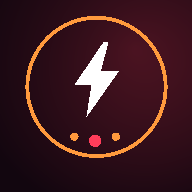
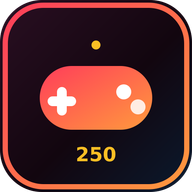
v2.6.4 2026-09-22

diff --git a/CHANGELOG.md b/CHANGELOG.md
@@ -1,5 +1,9 @@
 # Historial — ArcadePaLoMuchacho
 
+## v2.6.4 (2026-09-22) — Icono nuevo
+- **Nuevo icono Mando**: gamepad coral con 250, aplicado en web (favicon,
+  PWA, Apple), portadas (og-image, promo, Play) y APK/AAB reconstruidos.
+
 ## v2.6.3 (2026-09-22) — Privacidad, calidad y cara nueva
 - **Kit Google Play listo**: AAB v2.6.3 código 4 firmado, APK directo
   actualizado, gráficos (destacada + 2 capturas) y `play/ficha-play.md`
